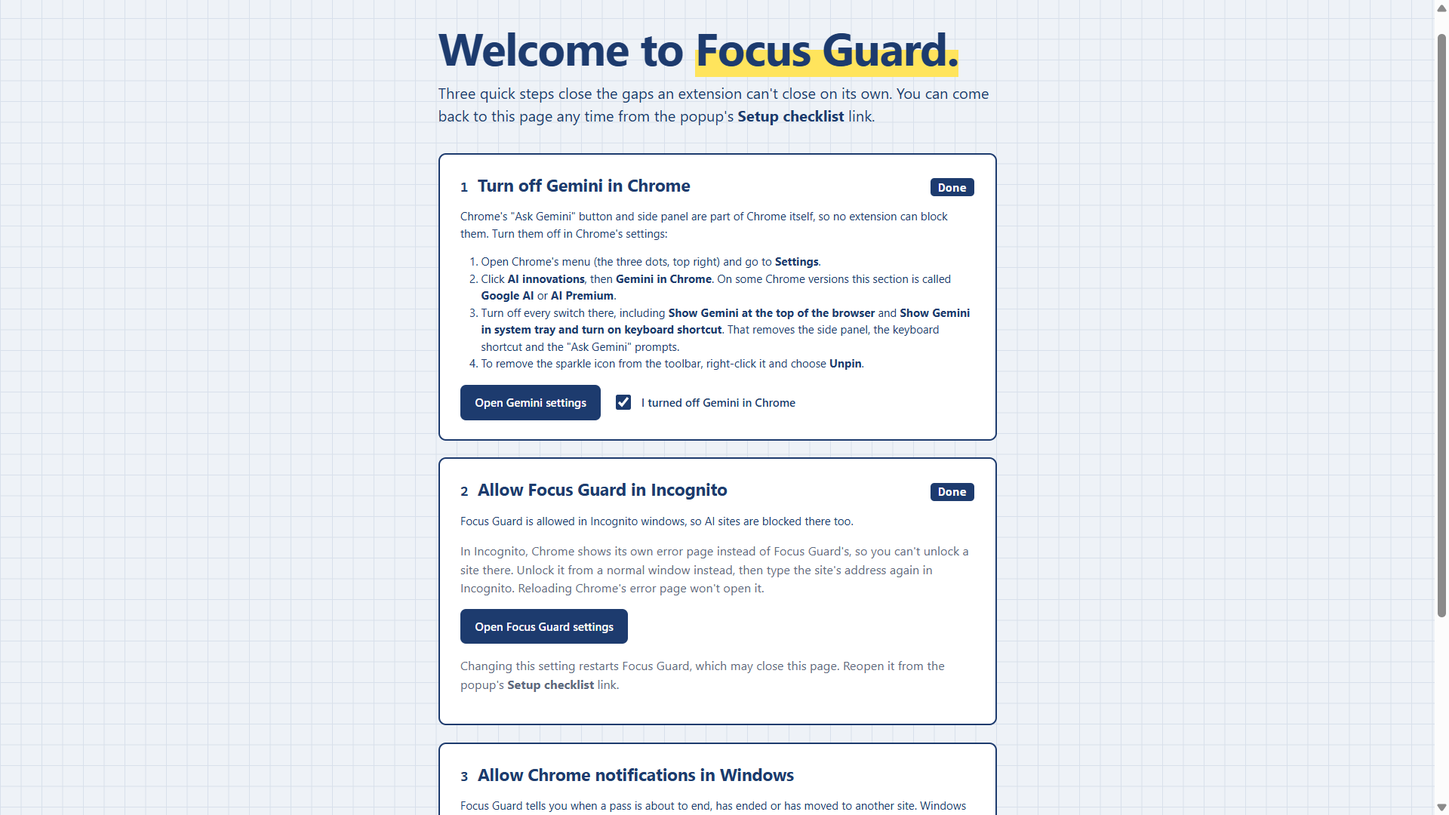
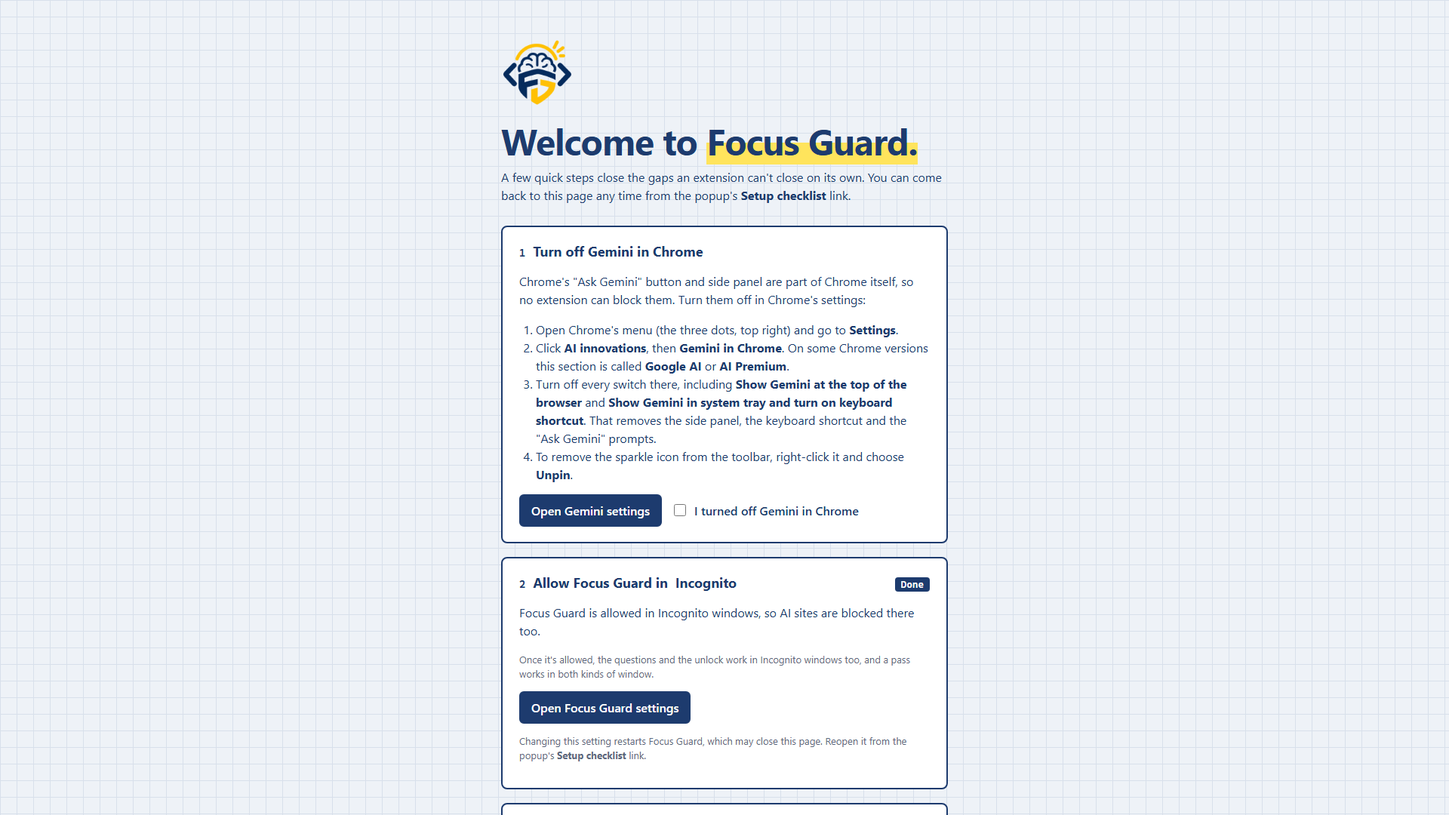
Prepare the 1.1.0 release
- manifest.json is 1.1.0, and CHANGELOG [Unreleased] is now
  [1.1.0] - 2026-11-25 with its link, mirrored on site/releases.html
- README and the website describe the new unlock questions, the AI
  prompt copy, part-of-a-site blocking and its defaults, the app
  builders group, streaks and the weekly chart, dark mode and Incognito
  support; the AI-inside-other-sites limitation is narrowed to what's
  still out of reach
- New screenshots in docs/screenshots and site/images, rendered from the
  1.1 pages (the popup is now 704 x 1139)
- ROADMAP ticks off v1.1; the hosted Incognito explanation page isn't
  needed now that Incognito gets the real block page
- CONTRIBUTING says where the numbers live and which docs repeat them
- TESTING.md checks the 1.1 features and the update from 1.0.0, with a
  console shortcut that recreates 1.0.0 saved data
- The on-hold store listing text matches 1.1.0; its screenshots still
  show 1.0.0 and are marked for retaking

diff --git a/site/releases.html b/site/releases.html
@@ -38,6 +38,42 @@
       <a class="button ghost" href="https://github.com/rishi555123/focus-guard/releases">All releases on GitHub</a>
     </div>
     <p class="small muted">Already installed? See <a href="install.html#updating">how to update</a>.</p>
+    <article class="release card" id="v1.1.0" aria-labelledby="h-v1.1.0">
+      <header>
+        <h2 id="h-v1.1.0">Version 1.1.0</h2>
+        <time datetime="2026-11-25">25 November 2026</time>
+        <a class="small" href="https://github.com/rishi555123/focus-guard/releases/tag/v1.1.0">Release on GitHub</a>
+      </header>
+<p>Focus Guard's own logo, dark mode, three questions before unlocking with a copy-as-prompt button, blocking AI features inside normal sites like GitHub Copilot and Google AI Mode, daily streaks and a weekly chart, and the block page in Incognito and InPrivate windows.</p>
+<h3>Added</h3>
+<ul>
+<li>Dark mode for the popup, the setup checklist and the block page, in the same colours as the website's dark theme. It follows your system setting, or pick Auto, Light or Dark at the bottom of the popup. Every Focus Guard page switches straight away, with no flash of the wrong theme when one opens. In dark mode the logo is drawn with light lines.</li>
+<li>After a pass is granted, the block page waits for you to open the site and offers <b>Copy as AI prompt</b>. It copies your three answers with a request for a hint or an explanation of the cause rather than the full solution.</li>
+<li>An optional <b>Also block AI app builders</b> choice under <b>Blocked sites</b> in the popup, for v0.app, bolt.new and lovable.dev. It's off unless you turn it on, it's locked during a session like the list, and turning it off never removes sites you added yourself.</li>
+<li>A daily streak and a weekly chart in the popup. A day counts toward your streak when you finish at least one session, and a streak lasts until the end of the next day. The chart shows your focused minutes for each of the last 7 days. Focus Guard keeps daily totals for the last 60 days; history starts with your first session after updating, and your existing totals are kept.</li>
+<li>Blocking just part of a site: an entry like <code>github.com/copilot</code> blocks that page and the pages under it, and <code>google.com/search?udm=50</code> blocks Google's AI Mode but not normal searches. New defaults cover GitHub Copilot (<code>github.com/copilot</code>), Grok on X (<code>x.com/i/grok</code>), Copilot on Bing (<code>bing.com/chat</code>), HuggingChat (<code>huggingface.co/chat</code>) and Google AI Mode (<code>google.com/search?udm=50</code>). They're added on update like other new defaults, unless your list already blocks the whole site or you deleted them.</li>
+</ul>
+<h3>Changed</h3>
+<ul>
+<li>A new, original Focus Guard logo replaces the Flaticon icon: a brain over an "FG" shield between code brackets, in navy and yellow. It's used for the toolbar, extension and notification icons. The 16-pixel toolbar icon shows just the FG shield, so it stays readable at that size.</li>
+<li>The logo now appears inside Focus Guard too: next to the name in the popup, above the welcome on the setup checklist, and small at the top of the block page.</li>
+<li>The website uses the new logo and favicon. In dark mode it shows a version of the logo with light lines instead of inverting the colours, so the yellow stays yellow.</li>
+<li>Unlocking asks three questions instead of one box: what you tried, what you expected and what happened instead, each in at least 20 characters. Answers that look like random typing, like <code>asdfasdf</code> or the same word over and over, are turned down, and Focus Guard checks again before it grants a pass.</li>
+<li>The toolbar icon has a thin light outline, so the navy stands out on dark browser toolbars and themes as well as light ones. The website's favicon matches.</li>
+<li>The blocklist keeps the path of an address you paste, so it can block part of a site. After saving, the popup says which lines it left out because another entry already blocks them, and which new entries block only part of a site.</li>
+<li>In Incognito and InPrivate windows, blocked sites now show Focus Guard's block page with the questions and the unlock, instead of the browser's error page, once you allow Focus Guard there. Passes, sessions and notifications work across normal and private windows. Focus Guard now runs a separate copy of itself for private windows ("split" incognito mode), and the two copies stay in step through extension storage.</li>
+</ul>
+<h3>Fixed</h3>
+<ul>
+<li>If a pass can't be granted after the 60-second wait, the block page now shows the error in red and lets you try again, keeping what you wrote. Before, the button stayed disabled until you reloaded the page.</li>
+<li>If a session can't be started, the popup now says why instead of doing nothing.</li>
+<li>The keyboard focus outline in the popup, setup checklist and block page is now navy instead of yellow, so you can see it against the light background.</li>
+</ul>
+<h3>Removed</h3>
+<ul>
+<li>The Flaticon icon credit, from the README and the website footer, now that the icon is Focus Guard's own.</li>
+</ul>
+    </article>
     <article class="release card" id="v1.0.0" aria-labelledby="h-v1.0.0">
       <header>
         <h2 id="h-v1.0.0">Version 1.0.0</h2>

diff --git a/site/index.html b/site/index.html
@@ -60,7 +60,7 @@
         </div>
         <div class="card">
           <h3>3. Still stuck? Earn a pass</h3>
-          <p>Write what you tried, wait 60 seconds, and get 5 minutes on that one site. Every other AI site stays blocked. Outside a session, everything works normally.</p>
+          <p>Answer three questions: what you tried, what you expected and what happened. Wait 60 seconds, and get 5 minutes on that one site, with your answers ready to copy as a prompt that asks for a hint. Every other AI site stays blocked.</p>
         </div>
       </div>
     </section>
@@ -70,13 +70,13 @@
       <div class="shots">
         <figure>
           <img src="images/blocked.png" width="1920" height="1080" loading="lazy"
-               alt="The Your brain first block page, showing three debugging questions, three problem-solving questions with checkboxes, and a box to write what you tried before a 60-second wait.">
+               alt="The Your brain first block page, showing three debugging questions and three problem-solving questions with checkboxes, then the first of three questions to answer before a 60-second wait: what did you try.">
           <figcaption>The block page: questions to try first, then a 5-minute pass if you're still stuck.</figcaption>
         </figure>
         <figure>
-          <img src="images/popup.png" width="722" height="872" loading="lazy"
-               alt="The Focus Guard popup with 25, 50 and 90 minute buttons, a Start coding session button, and stats for sessions finished, focused minutes, AI visits blocked and passes used.">
-          <figcaption>The popup: pick a session length and see your stats.</figcaption>
+          <img src="images/popup.png" width="704" height="1139" loading="lazy"
+               alt="The Focus Guard popup with 25, 50 and 90 minute buttons, a Start coding session button, stats for sessions finished, focused minutes, AI visits blocked and passes used, a 5-day streak with a bar chart of focused minutes for the last 7 days, and Auto, Light and Dark theme buttons.">
+          <figcaption>The popup: pick a session length, and see your stats, streak and week.</figcaption>
         </figure>
         <figure>
           <img src="images/welcome.png" width="1920" height="1080" loading="lazy"
@@ -90,16 +90,20 @@
       <h2 id="features-title">What's included</h2>
       <div class="grid grid-2">
         <div class="card">
-          <h3>Blocks 25 AI chat sites</h3>
-          <p>ChatGPT, Gemini, Claude, Microsoft Copilot, Perplexity, DeepSeek and more, including their subdomains. Add or remove sites yourself; the list is locked during a session.</p>
+          <h3>Blocks 25 AI chat sites, and AI inside other sites</h3>
+          <p>ChatGPT, Gemini, Claude, Microsoft Copilot, Perplexity, DeepSeek and more, including their subdomains, plus GitHub Copilot, Grok on X and Google's AI Mode without blocking the rest of those sites. Add or remove sites yourself; the list is locked during a session.</p>
         </div>
         <div class="card">
           <h3>One site at a time</h3>
           <p>A pass unlocks only the site you were stuck on. Notifications tell you one minute before it ends, when it ends, and if it moves to another site.</p>
         </div>
         <div class="card">
-          <h3>Simple stats</h3>
-          <p>Sessions finished, focused minutes, AI visits blocked and passes used, right in the popup.</p>
+          <h3>Stats and streaks</h3>
+          <p>Sessions finished, focused minutes, AI visits blocked and passes used, plus a daily streak and a chart of your last 7 days, right in the popup.</p>
+        </div>
+        <div class="card">
+          <h3>Light or dark, and private windows too</h3>
+          <p>Dark mode follows your system, or pick Light or Dark. Allow Focus Guard in Incognito or InPrivate and the block page works there as well.</p>
         </div>
         <div class="card">
           <h3>Private by design</h3>

diff --git a/README.md b/README.md
@@ -24,9 +24,9 @@ Focus Guard doesn't ban AI. It adds **friction**.
 
 While a coding session is running, AI chat sites are swapped out for a "Your brain first." page. It gives you a few questions to try first. If you're still stuck, you can unlock the site:
 
-1. Write down what you've tried (at least 60 characters).
+1. Answer three questions: what you tried, what you expected, and what happened instead (at least 20 characters each, and no random typing).
 2. Wait 60 seconds. Use the time to try one more idea.
-3. Get a 5-minute pass for that one site, and you're sent back to it. Every other AI site stays blocked.
+3. Get a 5-minute pass for that one site. Every other AI site stays blocked. Before you open the site, **Copy as AI prompt** puts your three answers on the clipboard with a request for a hint rather than the full solution.
 
 Most of the time, writing the problem down or waiting that minute is enough to get you unstuck on your own. When it isn't, the AI is still there.
 
@@ -35,19 +35,23 @@ Most of the time, writing the problem down or waiting that minute is enough to g
 - **Timed coding sessions** of 25, 50 or 90 minutes, with a countdown in the popup and minutes left shown on the toolbar icon.
 - **Blocks AI chat sites only during a session.** Outside a session, everything works normally.
 - **Catches tabs that are already open.** Any AI tabs open when you start a session get redirected too.
+- **Blocks AI features inside normal sites**, like GitHub Copilot, Grok on X and Google's AI Mode, without blocking the rest of those sites.
 - **Rotating questions** on the block page: 3 debugging and 3 problem-solving questions, picked at random from a larger pool each time it opens, like "What changed since it last worked?" or "What do the constraints tell you?"
-- **Earned 5-minute passes** after you write a note and wait 60 seconds. A pass only unlocks the site you were stuck on.
+- **Earned 5-minute passes** after you answer three questions about what you tried and wait 60 seconds. A pass only unlocks the site you were stuck on, and you can copy your answers as a ready-made prompt that asks for a hint, not the answer.
 - **Pass notifications** one minute before a pass ends, when it ends, and when it moves to another site.
 - **Your own blocklist.** Add or remove sites from the popup. The list is locked during a session so you can't quietly remove a site to get around the block.
-- **Simple stats**: sessions finished, focused minutes, AI visits blocked and passes used.
+- **Simple stats**: sessions finished, focused minutes, AI visits blocked and passes used, plus a **daily streak** and a **weekly chart** of your focused minutes.
+- **Optional AI app builders group** (v0.app, bolt.new, lovable.dev), off unless you turn it on.
+- **Dark mode** that follows your system, or pick Light or Dark in the popup.
+- **Works in Incognito and InPrivate windows** too, block page and all, once you allow it.
 
 ## Screenshots
 
-![The Focus Guard popup with the 25, 50 and 90 minute buttons and stats](docs/screenshots/popup.png)
+![The Focus Guard popup with the 25, 50 and 90 minute buttons, stats, a 5-day streak with a weekly chart, and the theme buttons](docs/screenshots/popup.png)
 
 *The popup: pick a session length, start a session and see your stats.*
 
-![The "Your brain first." block page with debugging and problem-solving questions and the unlock box](docs/screenshots/blocked.png)
+![The "Your brain first." block page with debugging and problem-solving questions, and the three unlock questions below](docs/screenshots/blocked.png)
 
 *The block page: questions to try first, then a 5-minute pass if you're still stuck.*
 
@@ -87,10 +91,18 @@ Working on the code? See [CONTRIBUTING.md](CONTRIBUTING.md) for loading it strai
 2. Pick a session length: 25, 50 or 90 minutes.
 3. Click **Start coding session**.
 4. Code! If you open an AI chat site, you'll land on the "Your brain first." page instead.
-5. Work through the checklist. Still stuck? Write what you've tried, wait out the 60 seconds and use your 5-minute pass.
+5. Work through the checklist. Still stuck? Answer the three questions, wait out the 60 seconds and use your 5-minute pass. Click **Open** when you're ready, or **Copy as AI prompt** first.
 6. When the timer runs out, the session counts as finished and sites unblock automatically. You can also click **End session early**, but then it won't count as finished.
 
-To change which sites are blocked, open the popup when no session is running. Expand **Blocked sites**, put one domain per line and click **Save sites**. Subdomains are covered automatically. You can paste full links too: `https://www.chatgpt.com/c/123` is saved as `chatgpt.com`. If a line isn't a valid domain, nothing is saved and the popup tells you which line to fix.
+To change which sites are blocked, open the popup when no session is running. Expand **Blocked sites**, put one site per line and click **Save sites**. Subdomains are covered automatically.
+
+- A site, like `chatgpt.com`, blocks the whole site.
+- A site with a path, like `github.com/copilot`, blocks just that page and the pages under it.
+- A path can also need one `name=value` part of the address, like `google.com/search?udm=50`, which blocks Google's AI Mode but not normal searches.
+
+You can paste full links too: `https://www.chatgpt.com/` is saved as `chatgpt.com`, and `https://github.com/copilot` as `github.com/copilot`. A pasted link keeps its path, so if you meant the whole site, remove everything after the site name. The popup points out entries that block only part of a site, and leaves out entries that another line already covers. If a line isn't a site, nothing is saved and the popup tells you which line to fix.
+
+Tick **Also block AI app builders** to block v0.app, bolt.new and lovable.dev as well. Turning it off again never removes sites you added yourself.
 
 ## Blocked sites
 
@@ -120,6 +132,16 @@ These are blocked by default, including all their subdomains:
 | T3 Chat | `t3.chat` |
 | TypingMind | `typingmind.com` |
 
+These AI features inside other sites are blocked too, without blocking the rest of the site:
+
+| Feature | Entry |
+| --- | --- |
+| GitHub Copilot on github.com | `github.com/copilot` |
+| Grok on X | `x.com/i/grok` |
+| Copilot on Bing | `bing.com/chat` |
+| HuggingChat | `huggingface.co/chat` |
+| Google Search AI Mode | `google.com/search?udm=50` |
+
 If you already have Focus Guard, new sites on this list are added to your blocklist when the extension updates. Any site you removed yourself stays removed.
 
 ## Known limitations
@@ -142,7 +164,7 @@ Focus Guard blocks websites by their address, so some AI tools are out of its re
   In Edge, the setup checklist shows this as an optional step, with a button that opens the settings page.
 - **AI assistants in your code editor**, like GitHub Copilot, Cursor or other extensions in VS Code and JetBrains. Focus Guard only works inside your browser. Most editors let you pause their AI features while you practise.
 - **Google AI Overviews**, the AI summaries at the top of normal Google search results. They're part of the search page itself, so blocking them would mean blocking Google Search.
-- **AI features inside normal sites**, like `github.com/copilot`, `x.com/i/grok` or Google's AI Mode. Blocking the whole site would be wrong here, so they aren't blocked yet. Blocking just those pages is planned. See [ROADMAP.md](ROADMAP.md).
+- **AI features inside other sites that aren't on the list.** Focus Guard blocks the AI parts of GitHub, X, Bing, Hugging Face and Google Search listed above, and you can add others by their address. AI built into a page you otherwise need, with no address of its own, can't be blocked. Google AI Mode is only blocked on `google.com`, not on country sites like `google.co.uk`; add `google.co.uk/search?udm=50` yourself if you use one.
 - **Incognito windows (InPrivate in Edge)**, unless you allow Focus Guard there. The popup reminds you and has a button that opens the right settings page. Turn on **Allow in Incognito** in Chrome, or **Allow in InPrivate** in Edge.
 - **The first page in a new Incognito or InPrivate window may flash light or dark.** Focus Guard runs a separate copy of itself in private windows, so the questions, the unlock and passes work there too. That copy keeps its own short-lived copy of your Light or Dark theme choice, so the first Focus Guard page it shows can briefly appear in the other theme. Auto isn't affected.
 - **Desktop and phone apps**, like the ChatGPT, Claude or Copilot apps. These run outside your browser.
@@ -151,7 +173,7 @@ Focus Guard blocks websites by their address, so some AI tools are out of its re
 
 Everything stays on your computer. The full privacy policy is in [PRIVACY.md](PRIVACY.md).
 
-- Your sessions, stats, blocklist and the unlock notes you write are saved only in `chrome.storage.local` in your own browser.
+- Your sessions, stats (including your daily totals for the streak and chart), blocklist, settings and the unlock notes you write are saved only in `chrome.storage.local` in your own browser.
 - Focus Guard has no servers, no analytics and no tracking, and it never sends your data anywhere.
 - It asks for access to all sites so it can spot when you open a blocked site and redirect that tab to the block page. It doesn't read or collect the content of the pages you visit.
 
@@ -198,13 +220,18 @@ Here's a quick map of the files:
 | `src/blocked/blocked.html` / `blocked.js` | The "Your brain first." page |
 | `src/blocked/links.js` | Reads the block page's address and works out where "Back to my code" goes |
 | `src/shared/style.css` | Shared graph-paper styling |
-| `src/shared/sites.js` | Cleans and checks what you type into the blocklist |
+| `src/shared/sites.js` | Cleans what you type into the blocklist, and matches addresses against whole-site and part-of-a-site entries |
+| `src/shared/constants.js` | Session lengths, the pass length, unlock limits and how many days of history to keep, in one place |
+| `src/shared/reason.js` | Checks the three unlock answers and builds the copied AI prompt |
+| `src/shared/streaks.js` | The daily history behind the streak and the weekly chart |
+| `src/shared/theme.js` | Applies the light or dark theme before each page draws |
 | `src/shared/setup.js` | Setup buttons shared by the popup and the welcome page |
 | `src/shared/browser.js` | Tells Edge from Chrome, with each browser's wording and settings pages |
 | `src/blocked/questions.js` | The pool of block page questions; add new ones here |
 | `src/welcome/welcome.html` / `welcome.js` | The setup checklist that opens on first install |
-| `icons/` | Extension and toolbar icons |
+| `icons/` | Extension and toolbar icons, and the logo for Focus Guard's own pages |
 | `docs/screenshots/` | Screenshots for the docs |
+| `docs/brand/` | The original logo files, and `make-icons.py`, which makes every icon from them |
 | `site/` | The project website: plain HTML and CSS, ready for Netlify with no build step |
 | `netlify.toml` | Tells Netlify to publish `site/` |
-| `tests/` | Tests for the background logic, blocklist input, block page links and manifest paths (run with `node --test`) |
+| `tests/` | Tests for the background logic, the popup and block page, blocklist input, unlock answers, streaks, themes, icons, the manifest and the website (run with `node --test`) |

diff --git a/TESTING.md b/TESTING.md
@@ -31,8 +31,11 @@ The **Needs first** column says what has to be running before you use a command.
 | Pretend the session ran out while Chrome was closed (then reload the extension) | Nothing. Replaces any running session | `await chrome.storage.local.set({ session: { startedAt: Date.now() - 26 * 60000, endsAt: Date.now() - 60000, minutes: 25 } })` |
 | Remove the stats | Nothing | `await chrome.storage.local.remove("stats")` |
 | Bring back the Gemini reminder | Nothing | `await chrome.storage.local.remove("geminiOff")` |
+| Make the saved data look like Focus Guard 1.0.0 (then reload the extension) | Nothing. Replaces your list, stats and settings | `await chrome.storage.local.clear(); await chrome.storage.local.set({ sites: ["chatgpt.com", "chat.openai.com", "gemini.google.com", "claude.ai", "copilot.microsoft.com", "perplexity.ai", "chat.deepseek.com", "poe.com", "grok.com", "you.com", "phind.com", "mysite.dev"], stats: { blocked: 7, sessions: 4, minutes: 130, unlocks: 2, log: [{ at: Date.now(), domain: "claude.ai", reason: "An unlock note written in 1.0.0, kept as it was." }] }, lastMinutes: 50, geminiOff: true })` |
 
 An active pass also means a running session, since passes only exist during one.
+
+With an Incognito window open, Focus Guard's card on `chrome://extensions` shows a second **service worker (Incognito)** link. That's the Incognito copy (section 10). Run the shortcuts in the normal **service worker** console: it's the one that ends sessions and passes and sends notifications.
 
 Chrome can delay alarms by up to about 30 seconds, so a notification may take a while to appear after you run a shortcut. Wait at least 30 seconds before reporting it as failed.
 
@@ -191,6 +194,31 @@ Use a separate install in Edge. Turn on **Developer mode** at `edge://extensions
 - [ ] 13.10 **Back to my code** in a window's only tab, with nothing to go back to, shows Edge's new tab page.
 - [ ] 13.11 Turn on **Allow in InPrivate**. During a session, `chatgpt.com` in an InPrivate window shows Focus Guard's block page, and unlocking it there works.
 - [ ] 13.12 Open Edge's Copilot sidebar during a session and note what it shows. Focus Guard isn't designed to block it (see Known limitations), so it may work normally. Report it if it shows Focus Guard's block page or an error instead.
-- [ ] 13.13 The Focus Guard card on `edge://extensions` shows version **1.0.0**.
+- [ ] 13.13 The Focus Guard card on `edge://extensions` shows version **1.1.0**.
 - [ ] 13.15 On Focus Guard's **Details** page at `edge://extensions`, the permissions list access to all websites and notifications, but not your browsing history.
 - [ ] 13.14 Click **Remove** on Focus Guard. A tab opens on the README's **Removed Focus Guard?** section, which includes the Copilot in Edge steps.
+
+## 14. New in 1.1
+
+- [ ] 14.1 The toolbar icon is the new logo. With a dark Chrome theme, its thin light outline keeps it easy to see.
+- [ ] 14.2 The popup, setup checklist and block page show the logo. Pick **Dark** in the popup: the popup and any open Focus Guard pages turn dark straight away, with the light-line logo. Pick **Light**, then **Auto**: Auto follows the Windows light or dark setting.
+- [ ] 14.3 Reload a dark Focus Guard page. It opens dark without flashing light first.
+- [ ] 14.4 On the block page, each answer shows how many characters are still needed. Typing `asdfasdf asdfasdf` in one says it looks like random typing, and the button stays disabled until all three answers are real.
+- [ ] 14.5 After the wait, the pass is granted but the site doesn't open by itself. **Copy as AI prompt** says "Copied", and pasting gives "I tried: …", "I expected: …", "Instead: …" and the line asking for a hint. **Open chatgpt.com** then opens the site.
+- [ ] 14.6 During a session, `https://github.com/copilot` and `https://www.google.com/search?q=sort+a+list&udm=50` (Google's AI Mode) show the block page, while `https://github.com/rishi555123/focus-guard` and `https://www.google.com/search?q=sort+a+list` open normally.
+- [ ] 14.7 On `x.com`, moving from the home page to Grok inside the site (without reloading) lands on the block page.
+- [ ] 14.8 Unlock `github.com/copilot`. GitHub Copilot opens, and `chatgpt.com` is still blocked.
+- [ ] 14.9 Outside a session, add `https://claude.ai/new` and `chatgpt.com/c/123` to **Blocked sites** and save. The popup says `chatgpt.com/c/123` was left out because `chatgpt.com` already blocks it, and that `claude.ai/new` blocks only part of a site.
+- [ ] 14.10 Tick **Also block AI app builders**. During a session, `v0.app`, `bolt.new` and `lovable.dev` show the block page; the checkbox is disabled until the session ends. Untick it afterwards: they open again, and your own list is unchanged.
+- [ ] 14.11 Finish a session (use the "Finish the session in 2 seconds" shortcut). The popup shows "1-day streak", today's bar in yellow, and the minutes in "min this week".
+- [ ] 14.12 With a screen reader, or by inspecting the popup, the chart's label lists the minutes for each of the last 7 days.
+
+## 15. Updating from 1.0.0
+
+- [ ] 15.1 Load Focus Guard 1.0.0 (the `focus-guard-1.0.0.zip` release), or use the "Make the saved data look like Focus Guard 1.0.0" shortcut on 1.1.0 and skip to 15.3.
+- [ ] 15.2 In 1.0.0, remove `poe.com` from the list, finish a session and use a pass, so there's real 1.0.0 data. Then replace the folder's contents with 1.1.0 and click reload on the extension card.
+- [ ] 15.3 The popup still shows the same totals for sessions, minutes, visits blocked and passes. The streak says "Finish a session to start a streak" and the chart is empty, since 1.0.0 didn't save days.
+- [ ] 15.4 **Blocked sites** keeps your own sites, still doesn't have `poe.com`, and now has the new defaults, including `deepseek.com`, `github.com/copilot` and `google.com/search?udm=50`. **Also block AI app builders** is off.
+- [ ] 15.5 Your last session length (50 minutes after the shortcut) is still picked, and the Gemini reminder stays hidden if you'd ticked it.
+- [ ] 15.6 Start and finish a session: the totals go up by one and the streak starts. `await chrome.storage.local.get("stats")` in the service worker console shows the old unlock note unchanged, and the new one with "Tried:", "Expected:" and "Instead:" lines.
+- [ ] 15.7 No welcome page opened during the update.

diff --git a/docs/store-listing.md b/docs/store-listing.md
@@ -15,10 +15,10 @@ The listing deliberately doesn't mention other browsers: policy 1.1.2 says an ex
 
 ## Package
 
-Upload `dist/focus-guard-1.0.0.zip`, built with:
+Upload `dist/focus-guard-1.1.0.zip`, built with:
 
 ```bash
-git -c core.autocrlf=false archive --format=zip -9 -o dist/focus-guard-1.0.0.zip HEAD manifest.json src icons
+git -c core.autocrlf=false archive --format=zip -9 -o dist/focus-guard-1.1.0.zip HEAD manifest.json src icons
 ```
 
 It contains `manifest.json` at the root plus `src/` and `icons/`, nothing else. `core.autocrlf=false` keeps the files byte for byte as they are in the repository, with no Windows line endings. Rebuild it from the commit you're releasing whenever anything changes.
@@ -90,14 +90,14 @@ Focus Guard helps you learn to code by making you try first. During a coding ses
 HOW IT WORKS
 - Start a 25, 50 or 90 minute coding session from the toolbar. The toolbar badge shows the minutes left.
 - Open an AI chat site and you'll see 6 questions to try first: 3 debugging questions, like "What changed since it last worked?", and 3 problem-solving questions, like "What's the brute-force solution, even if it's slow?". They're picked at random from a larger pool each time.
-- Still stuck? Write what you tried (at least 60 characters), wait 60 seconds, and get a 5-minute pass for that one site. Every other AI site stays blocked.
+- Still stuck? Answer three questions about what you tried, expected and got (at least 20 characters each), wait 60 seconds, and get a 5-minute pass for that one site. Every other AI site stays blocked.
 - Notifications tell you one minute before a pass ends, when it ends, and when it moves to another site.
 - Outside a session, every site works normally.
 
 FEATURES
-- Blocks 25 AI chat sites and their subdomains by default.
+- Blocks 25 AI chat sites and their subdomains by default, plus AI features inside other sites like GitHub Copilot and Google's AI Mode.
 - Edit the blocklist yourself. It's locked during a session, so you can't quietly remove a site.
-- Simple stats: sessions finished, focused minutes, AI visits blocked and passes used.
+- Simple stats: sessions finished, focused minutes, AI visits blocked and passes used, with a daily streak and a weekly chart.
 - A short setup checklist on first install, including an optional step to turn off Copilot in Edge.
 
 PRIVACY
@@ -113,7 +113,7 @@ Focus Guard is open source under the MIT license.
 
 ### Images
 
-All in `docs/store/`, made from real screenshots of the extension:
+All in `docs/store/`, made from real screenshots of the extension. The three screenshots show version 1.0.0 and need retaking before a submission:
 
 | Field | File | Size | Microsoft's requirement |
 | --- | --- | --- | --- |
@@ -152,7 +152,7 @@ HOW TO TEST
 1. After installing, a "Welcome to Focus Guard" setup page opens. Its steps are optional.
 2. Click the Focus Guard toolbar icon, pick 25 min and click "Start coding session". The badge shows the minutes left.
 3. Open https://chatgpt.com. You're redirected to Focus Guard's "Your brain first." page with 6 questions.
-4. In "Still truly stuck?", type at least 60 characters, click "Start 60-second wait" and wait 60 seconds. You're sent to chatgpt.com with a 5-minute pass. Other AI sites, like https://claude.ai, stay blocked.
+4. In "Still truly stuck?", answer the three questions (at least 20 characters each), click "Start 60-second wait", wait 60 seconds, then click "Open chatgpt.com". It opens with a 5-minute pass. Other AI sites, like https://claude.ai, stay blocked.
 5. Click "End session early" in the popup. All sites open normally again.
 
 TESTING TIMERS WITHOUT WAITING

diff --git a/ROADMAP.md b/ROADMAP.md
@@ -9,17 +9,17 @@ Here's what's done and what's coming next for Focus Guard.
 - [x] Unlocking with a written reason and a 60-second wait
 - [x] Stats: sessions finished, focused minutes, AI visits blocked and passes used
 
-## v1.1
+## v1.1 (done)
 
-- [ ] Daily streaks
-- [ ] Weekly focus chart
-- [ ] Dark mode
-- [ ] Extension icons
-- [ ] Path-based blocking for AI features inside normal sites, such as `github.com/copilot`, `x.com/i/grok`, `bing.com/chat`, `huggingface.co/chat` and Google Search AI Mode (`google.com/search?udm=50`), without blocking the rest of the site
-- [ ] Optional "AI app builders" group, off by default: `v0.app`, `bolt.new`, `lovable.dev`
-- [ ] Smarter unlock reason: replace the single text box with guided questions (what did you try, what did you expect, what happened instead) and reject keyboard-mashing like random letters
-- [ ] Real Incognito support with split mode: coordinate the two copies of the background script through shared storage, then test timers, rules and notifications in real Chrome
-- [ ] Friendlier Incognito block: send blocked Incognito tabs to a hosted GitHub Pages explanation instead of Chrome's error page
+- [x] Daily streaks
+- [x] Weekly focus chart
+- [x] Dark mode
+- [x] Extension icons: an original logo, with toolbar icons that show on dark toolbars too
+- [x] Path-based blocking for AI features inside normal sites, such as `github.com/copilot`, `x.com/i/grok`, `bing.com/chat`, `huggingface.co/chat` and Google Search AI Mode (`google.com/search?udm=50`), without blocking the rest of the site
+- [x] Optional "AI app builders" group, off by default: `v0.app`, `bolt.new`, `lovable.dev`
+- [x] Smarter unlock reason: replace the single text box with guided questions (what did you try, what did you expect, what happened instead) and reject keyboard-mashing like random letters
+- [x] Real Incognito support with split mode: coordinate the two copies of the background script through shared storage, then test timers, rules and notifications in real Chrome
+- [x] ~~Friendlier Incognito block: send blocked Incognito tabs to a hosted GitHub Pages explanation instead of Chrome's error page~~ Not needed: with split mode, Incognito tabs get the real block page
 
 ## v2.0
 

diff --git a/CONTRIBUTING.md b/CONTRIBUTING.md
@@ -26,6 +26,20 @@ The block page shows 3 random debugging questions and 3 random problem-solving q
 
 Keep it short, end it with a question mark, and run `node --test` to check it.
 
+## Change a session length, pass length or unlock limit
+
+The session lengths, the 5-minute pass, the unlock limits (20 characters per answer, a 60-second wait) and how many days of history to keep all live in `src/shared/constants.js`. Every label and message in the extension is built from there, and `node --test` fails if one of these numbers is typed out anywhere else in `src/`.
+
+The docs can't read that file, so they repeat the numbers. When you change one, update these too:
+
+- `README.md`: How Focus Guard solves it, Features, How to use it
+- `PRIVACY.md` and `site/privacy.html`: the pass length and the days of history, kept matching each other
+- `site/index.html`: How it works
+- `TESTING.md`: the steps that wait out a pass or the unlock
+- `docs/store-listing.md`: the store description
+
+Don't change the numbers in `CHANGELOG.md` or `site/releases.html` for versions already released; they describe those versions.
+
 ## Run the tests
 
 The tests check the background logic (sessions, blocking rules, passes), the blocklist input cleaning, browser detection and the block page questions without opening a browser. You only need [Node.js](https://nodejs.org) 22 or newer. There's nothing to install.

diff --git a/CHANGELOG.md b/CHANGELOG.md
@@ -6,6 +6,10 @@ The format is based on [Keep a Changelog](https://keepachangelog.com/en/1.1.0/),
 
 ## [Unreleased]
 
+## [1.1.0] - 2026-11-25
+
+Focus Guard's own logo, dark mode, three questions before unlocking with a copy-as-prompt button, blocking AI features inside normal sites like GitHub Copilot and Google AI Mode, daily streaks and a weekly chart, and the block page in Incognito and InPrivate windows.
+
 ### Added
 
 - Dark mode for the popup, the setup checklist and the block page, in the same colours as the website's dark theme. It follows your system setting, or pick Auto, Light or Dark at the bottom of the popup. Every Focus Guard page switches straight away, with no flash of the wrong theme when one opens. In dark mode the logo is drawn with light lines.
@@ -97,5 +101,6 @@ The first public release, for Google Chrome and Microsoft Edge, installed from G
 
 Known limitations, like Chrome's built-in Gemini panel, Edge's Copilot sidebar and the block page in private windows, are listed in the [README](README.md#known-limitations).
 
-[Unreleased]: https://github.com/rishi555123/focus-guard/compare/v1.0.0...HEAD
+[Unreleased]: https://github.com/rishi555123/focus-guard/compare/v1.1.0...HEAD
+[1.1.0]: https://github.com/rishi555123/focus-guard/releases/tag/v1.1.0
 [1.0.0]: https://github.com/rishi555123/focus-guard/releases/tag/v1.0.0
